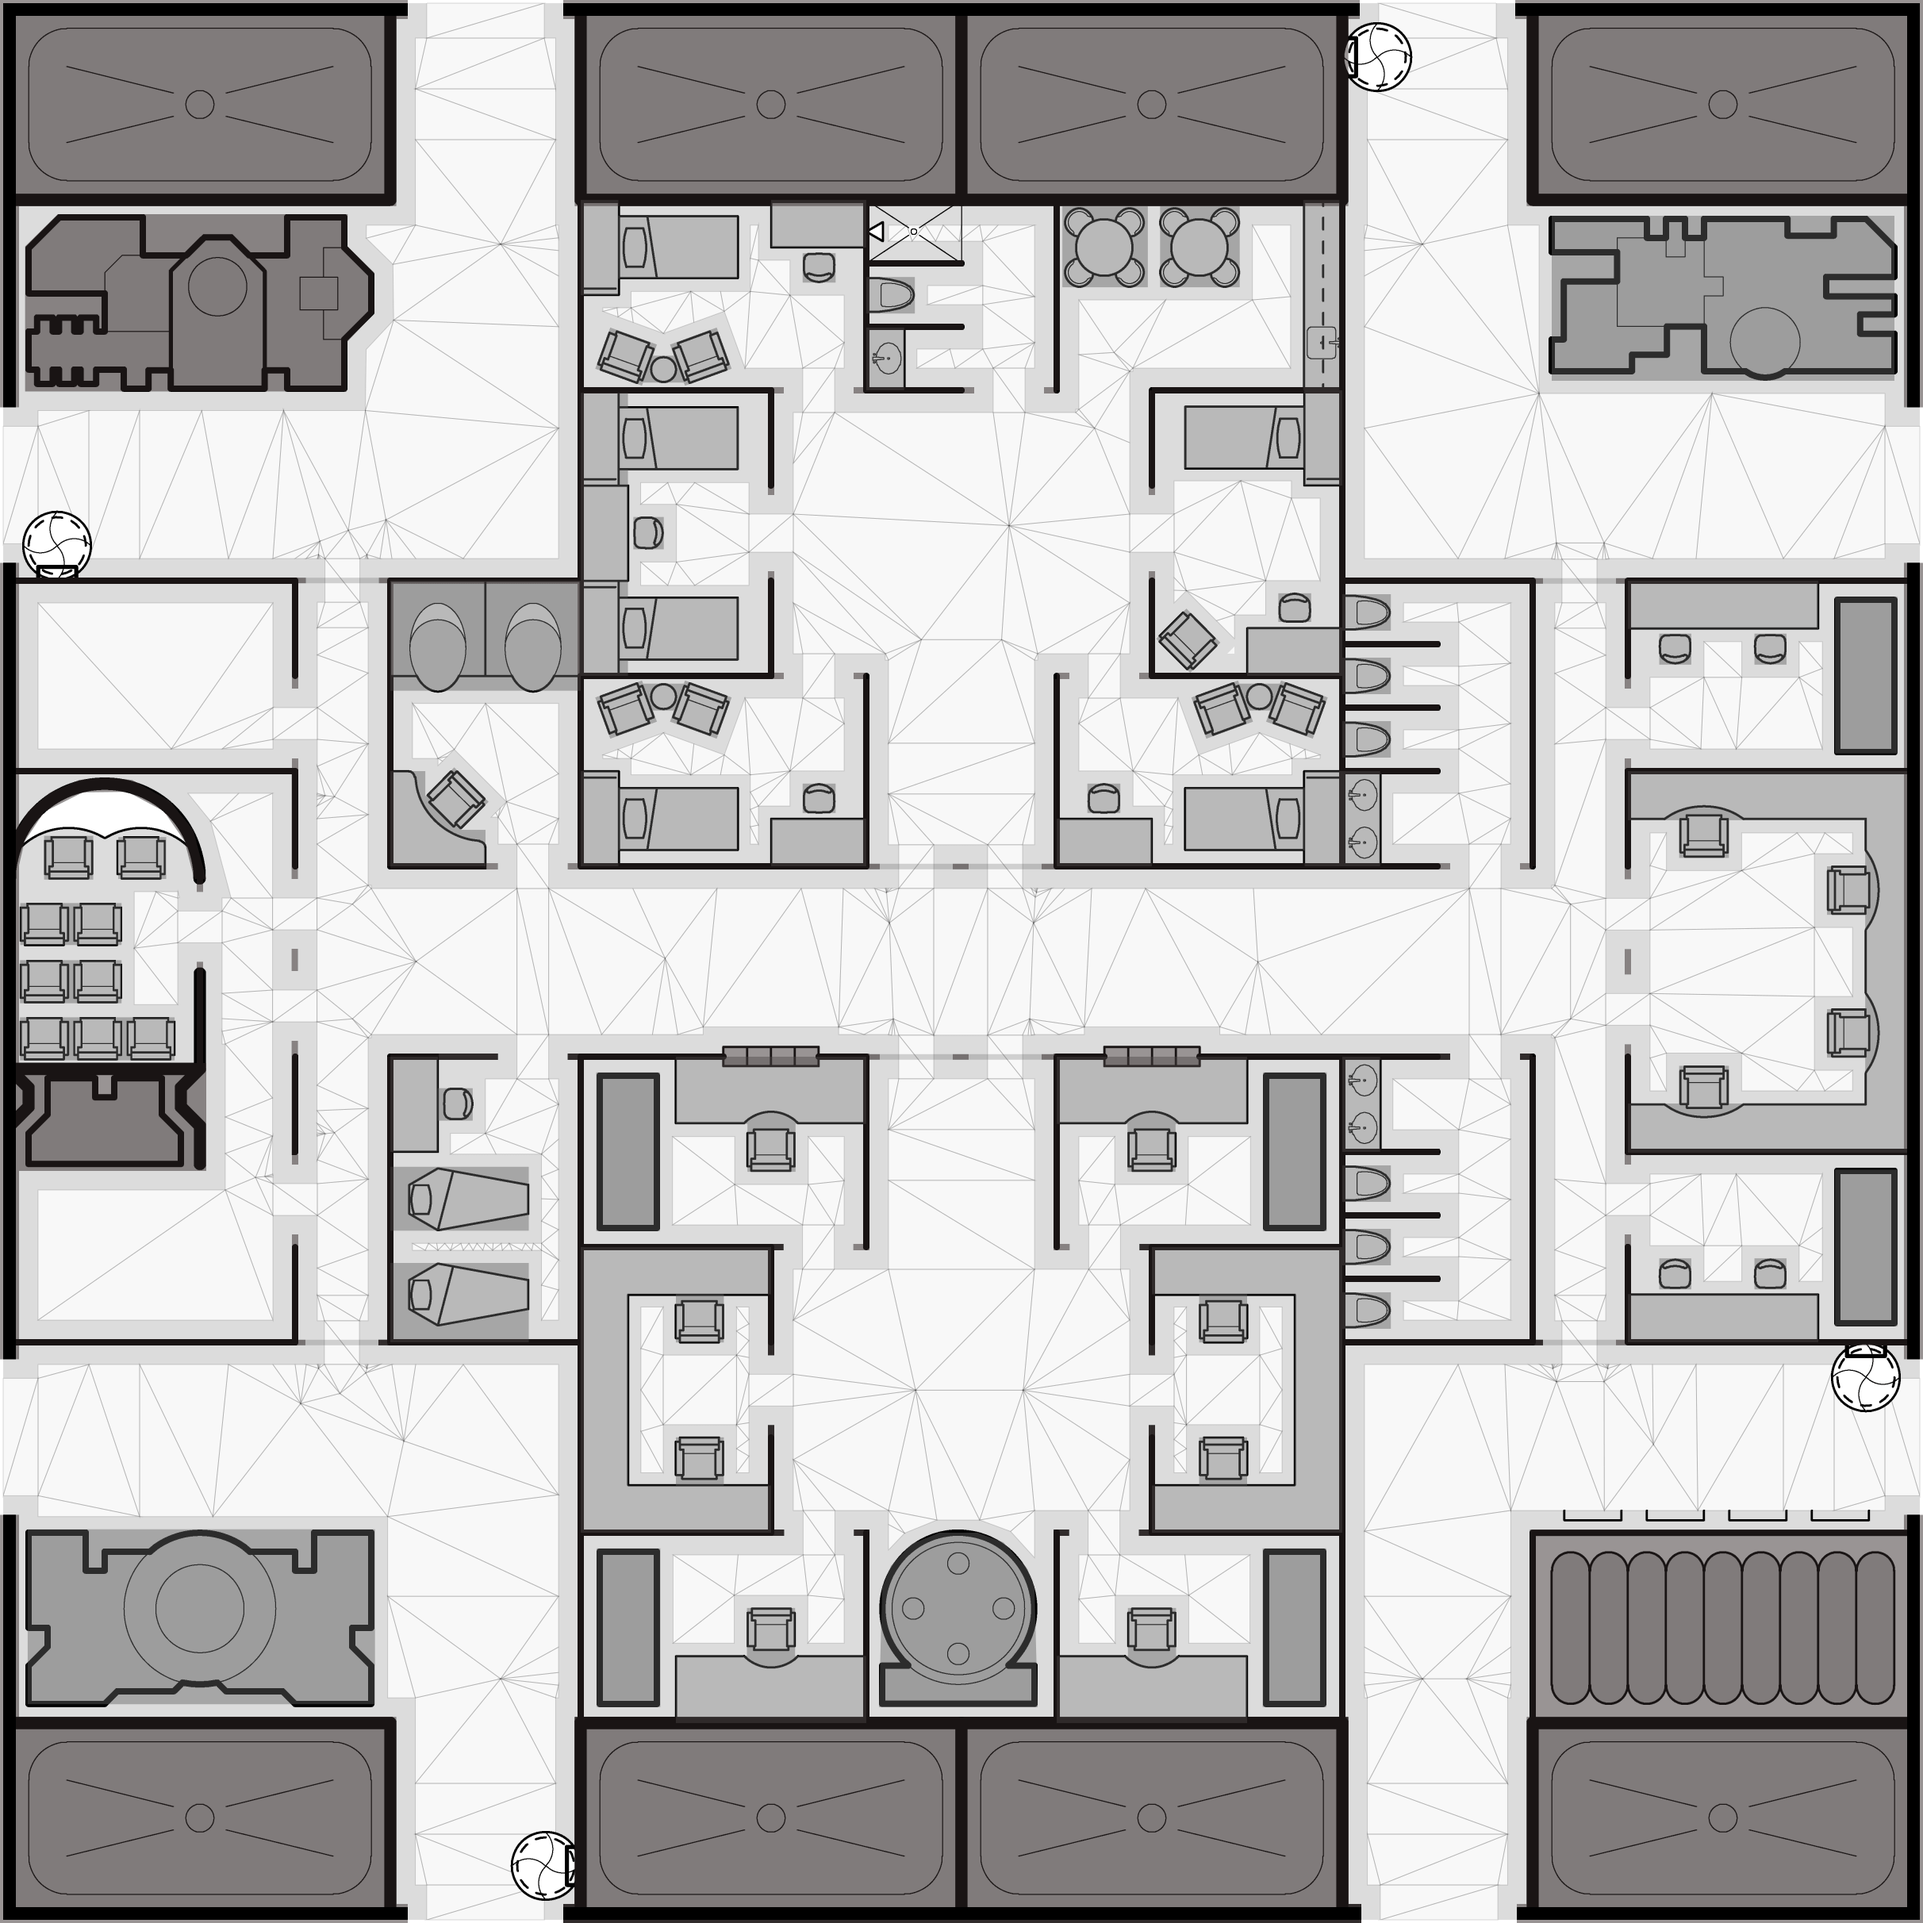
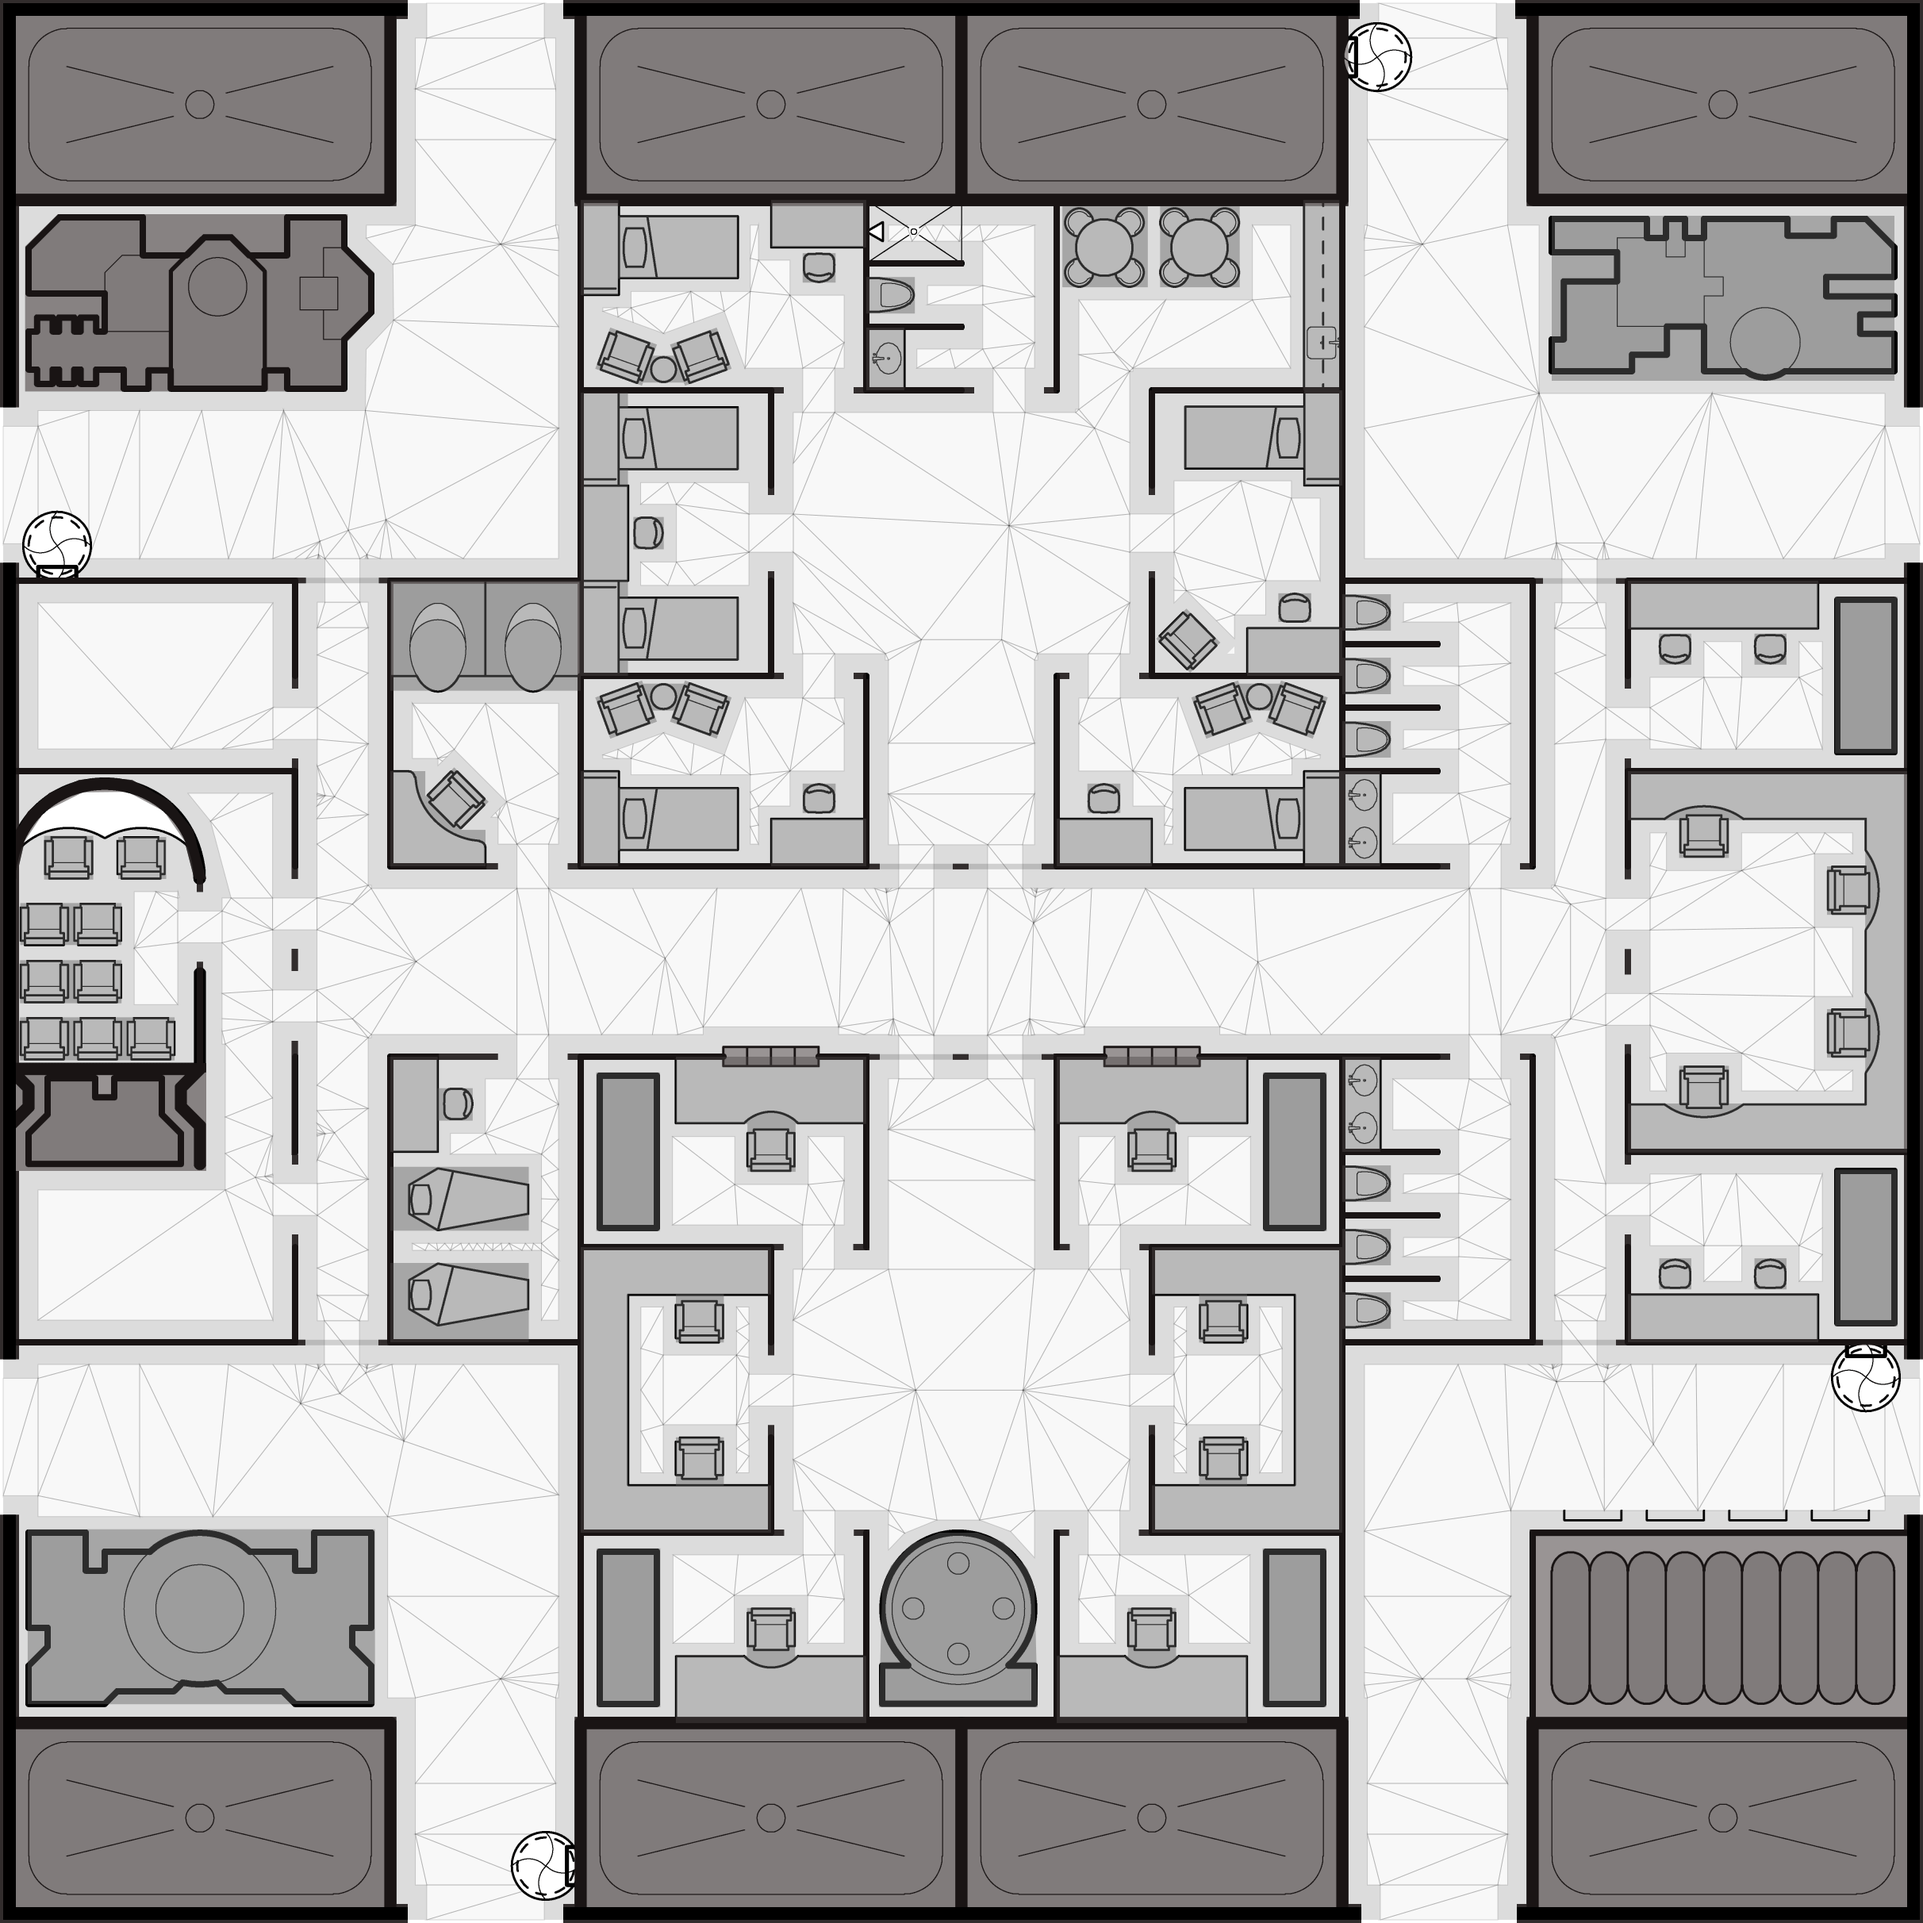
fix: avoid fill walls via tag no-fill

diff --git a/projects/geomorph/render-geomorph.js b/projects/geomorph/render-geomorph.js
@@ -1,5 +1,5 @@
 import { Poly, Vect } from "../geom";
-import { labelMeta } from './geomorph.model';
+import { filterSingles, labelMeta } from './geomorph.model';
 import { error } from "../service/log";
 import { singlesToPolys } from '../geomorph/geomorph.model';
 import { drawLine, drawTriangulation, fillPolygon, fillRing, setStyle, strokePolygon } from '../service/dom';
@@ -56,16 +56,15 @@ export async function renderGeomorph(
   }
 
   /**
-   * Draw walls without drawing over e.g. fuel and symbol PNGs.
-   * - without this some walls look worse, particularly when inverted.
-   * - currently dark grey for debug?.
-   * - do not draw holes i.e. restrict to largest polygon in wallsSansWindows
+   * Fill walls
+   * - without this some walls look worse, particularly when inverted
+   * - do not fill windows, or walls tagged with no-fill
+   * - currently dark grey for debug?
    */
   const { singles, obstacles, walls } = layout.groups;
-  const wallsSansWindows = Poly.cutOut(singlesToPolys(singles, 'window'), walls);
-  wallsSansWindows.sort((a, b) => a.rect.area > b.rect.area ? -1 : 1); // Desc by area
+  const wallsToFill = Poly.cutOut(singlesToPolys(singles, 'window', ['wall', 'no-fill']), walls);
   ctxt.fillStyle = 'rgba(50, 50, 50, 1)';
-  fillPolygon(ctxt, wallsSansWindows.slice(0, 1));
+  fillPolygon(ctxt, wallsToFill);
 
   ctxt.lineJoin = 'round';
   hullSym.singles.forEach(({ poly, tags }) => {

diff --git a/projects/geomorph/geomorph.model.js b/projects/geomorph/geomorph.model.js
@@ -23,16 +23,18 @@ export const labelMeta = {
 
 /**
  * @param {{ tags: string[]; poly: Geom.Poly }[]} singles 
- * @param {string} tag Restrict to singles with this tag
+ * @param {...(string | string[])} tagOrTags Restrict to singles with any/all of these tags
  */
-export function singlesToPolys(singles, tag) {
-  return filterSingles(singles, tag).map(x => x.poly);
+export function singlesToPolys(singles, ...tagOrTags) {
+  return filterSingles(singles, ...tagOrTags).map(x => x.poly);
 }
 
 /**
  * @param {{ tags: string[]; poly: Geom.Poly }[]} singles 
- * @param {string} tag Restrict to singles with this tag
+ * @param {...(string | string[])} tagOrTags Restrict to singles with any/all of these tags
  */
-export function filterSingles(singles, tag) {
-  return singles.filter(x => x.tags.includes(tag));
+export function filterSingles(singles, ...tagOrTags) {
+  return singles.filter(x => tagOrTags.some(spec =>
+    Array.isArray(spec) ? spec.every(tag => x.tags.includes(tag)) : x.tags.includes(spec))
+  );
 }
